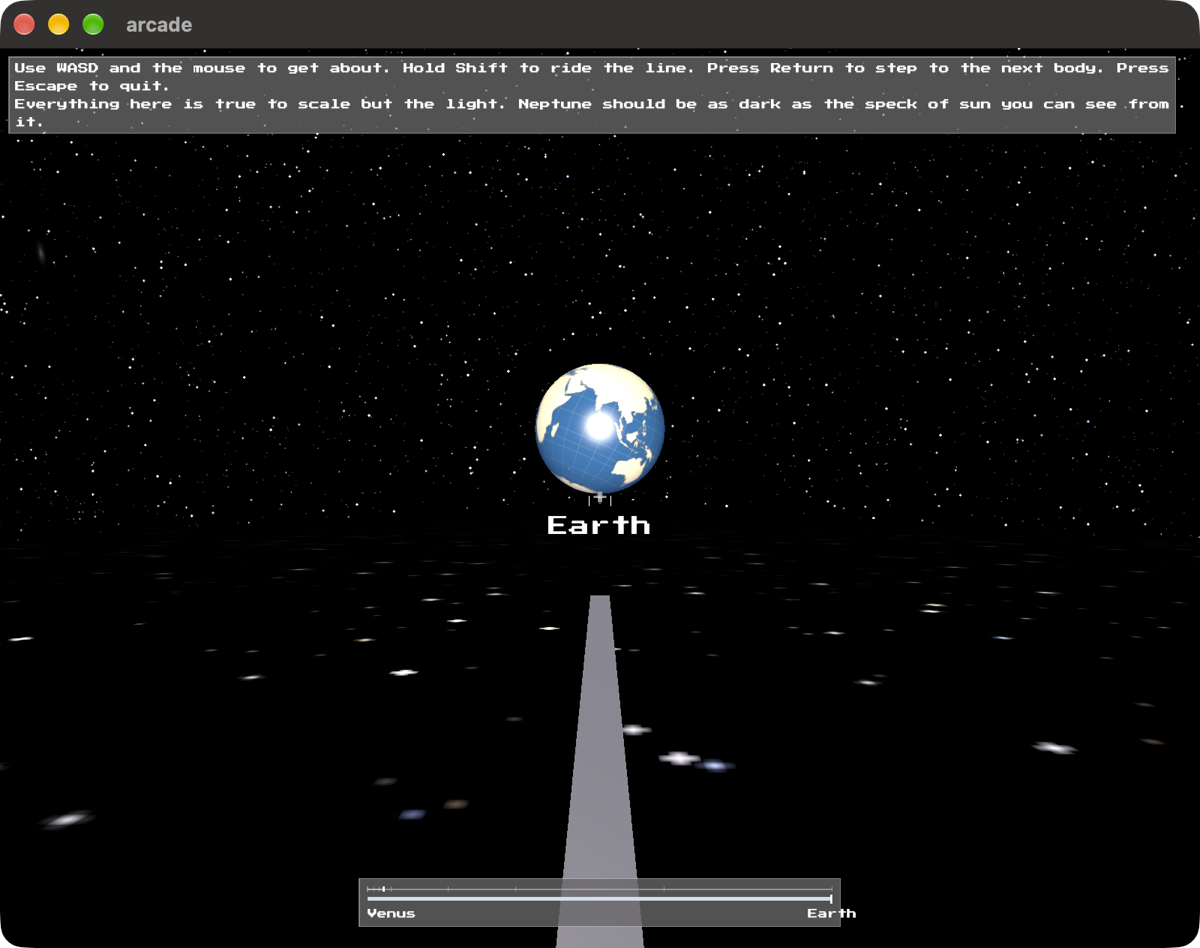
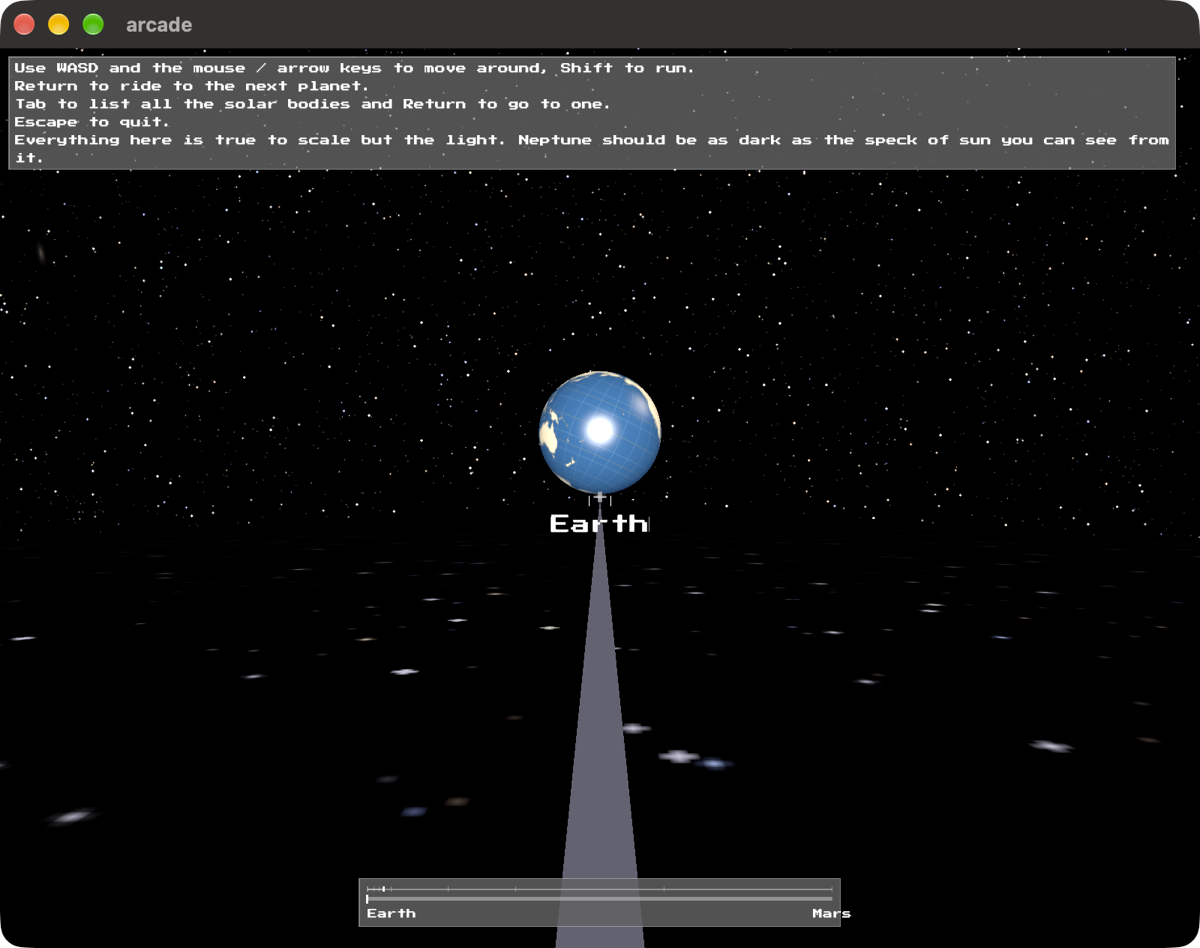
Let the game say which pictures it has, and retake all four
Three of the arcade's four pictures on the site were taken by hand once and
nothing could take them again. refresh-screenshots knew only screenshot.png,
so a room that changed under them would have left three pictures of a building
that no longer existed, published, with every check green.

The game answers --screenshots now with a name and a file a line, so which
pictures it has is the game's to know and the photographer only takes them.

The three extra poses are no longer aimed by hand either. beyond::posed_at
returns where the ride actually sets you down, through the same arriving the
auto-stop uses, so a picture cannot be of somewhere the game never puts you.
Coming in from the stop before it is the one rule and it gives both pictures:
a planet with the line running away behind it, because the stop before a
planet is the planet inside it, and a moon on its own with its planet at your
back, because the stop before a moon is its planet.

Every shot is named, Saturn's included, and that is not tidiness. A shell
strips leading whitespace off a field when the separator is whitespace, so a
nameless first field ate the file name after it and the staged shot was
quietly the one picture of four that did not get taken.

All four are retaken here. They differ from what was committed because those
predate the rewrite of the help lines.

And the galaxies that are not here. The hidden room's standing walls looked
[…]

diff --git a/src/orrery.rs b/src/orrery.rs
@@ -948,6 +948,45 @@ pub fn starred(seed: u32, size: glam::Vec2) -> blitzkit::texture::TextureData {
     blitzkit::texture::TextureData::from_pixels(wide, tall, pixels)
 }
 
+/// How big a galaxy is, as a share of the picture's smaller side, least and
+/// most.
+///
+/// The smaller side, so one is the same size whatever shape the surface is.
+/// Which is also, it turns out, the whole answer to which surfaces can carry
+/// one: see `galaxy_across`.
+pub const GALAXY_LEAST: f32 = 0.012;
+pub const GALAXY_MOST: f32 = 0.040;
+
+/// How big a galaxy comes out on a surface of this size, across, in the
+/// surface's own units.
+///
+/// Worked out rather than looked at, because looking at it is what wasted the
+/// round: galaxies were put on the hidden room's four standing walls and two
+/// frames of the same spot, differenced, came back 91 pixels of two million
+/// changed by three code values or more. Nothing, and this says why without
+/// anybody having to build it again.
+///
+/// Only the checks ask. `galaxied` does its own arithmetic in texels because
+/// texels are what it is laying down, and this is the same arithmetic in the
+/// units a person thinks in.
+#[cfg(test)]
+pub fn galaxy_across(size: glam::Vec2) -> (f32, f32) {
+    let wide = ((size.x * STAR_PER_UNIT) as u32).clamp(64, STAR_MOST) as f32;
+    let tall = ((size.y * STAR_PER_UNIT) as u32).clamp(64, STAR_MOST) as f32;
+    // the smaller side decides how big a galaxy is, and so it is also the
+    // side whose texels say what that is worth on the surface
+    let (least, over) = if wide <= tall {
+        (wide, size.x / wide)
+    } else {
+        (tall, size.y / tall)
+    };
+
+    (
+        least * GALAXY_LEAST * 2.0 * over,
+        least * GALAXY_MOST * 2.0 * over,
+    )
+}
+
 /// The same, with a few galaxies in it.
 ///
 /// Only the sky of spec 0018 gets these, and only because it is the one
@@ -956,6 +995,22 @@ pub fn starred(seed: u32, size: glam::Vec2) -> blitzkit::texture::TextureData {
 /// picture across, and a picture laid on something you can walk up to puts
 /// that at a few metres. On the floor they came out as six metre smudges at
 /// your feet.
+///
+/// **The hidden room's standing walls cannot have them either**, which is the
+/// other half and is less obvious. They are the one dark surface in this
+/// building that is nowhere near your feet, so they look like the answer. They
+/// are also 3.2 metres high and 159 long, and a galaxy is a share of the
+/// *smaller* side: on a letterbox that is eight to twenty-five centimetres,
+/// which from anywhere in that room is nothing at all. Sizing them off the
+/// long side instead only moves the problem: it makes a galaxy on that wall
+/// 12.7 metres across, which runs off the top and the bottom of a wall 3.2
+/// high four times over, and the one thing a
+/// galaxy is for is saying the dark goes on past the stars. A wall you can
+/// walk up to and touch says the opposite.
+///
+/// A galaxy wants a surface that is big whichever way you measure it. This
+/// building has two, the hidden room's floor and its lid, and both of those
+/// are the six metre smudges above.
 pub fn galaxied(seed: u32, size: glam::Vec2) -> blitzkit::texture::TextureData {
     let (wide, tall, mut pixels) = sprinkled(seed, size);
     let many = (wide as u64 * tall as u64 / 420).max(16) as u32;
@@ -980,7 +1035,8 @@ pub fn galaxied(seed: u32, size: glam::Vec2) -> blitzkit::texture::TextureData {
         let at = glam::vec2((next() % wide) as f32, (next() % tall) as f32);
         // across the long way, as a share of the smaller side, so one is the
         // same size whatever shape the surface is
-        let reach = wide.min(tall) as f32 * (0.012 + (next() % 1000) as f32 / 1000.0 * 0.028);
+        let reach = wide.min(tall) as f32
+            * (GALAXY_LEAST + (next() % 1000) as f32 / 1000.0 * (GALAXY_MOST - GALAXY_LEAST));
         let squash = 0.24 + (next() % 1000) as f32 / 1000.0 * 0.5;
         let turn = (next() % 1000) as f32 / 1000.0 * std::f32::consts::PI;
         let (sin, cos) = turn.sin_cos();
@@ -1663,6 +1719,48 @@ pub fn picture(body: &Body) -> blitzkit::texture::TextureData {
 #[cfg(test)]
 mod tests {
     use super::*;
+
+    /// Spec 0018: a galaxy wants a surface that is big whichever way it is
+    /// measured, and this building has two of them, both underfoot or
+    /// overhead.
+    ///
+    /// Written after putting galaxies on the hidden room's four standing walls
+    /// and differencing two frames of the same spot: 91 pixels of two million
+    /// changed by three code values or more. They are 3.2 metres high, a
+    /// galaxy is a share of the smaller side, and a share of 3.2 metres is
+    /// centimetres.
+    ///
+    /// Both halves are here, because either one alone reads as an argument for
+    /// turning the other dial. The floor is the surface that is big both ways
+    /// and a galaxy on it is metres across at your feet, which is why `walls`
+    /// uses `starred` for every one of them.
+    #[test]
+    fn a_galaxy_wants_a_surface_that_is_big_whichever_way_it_is_measured() {
+        for (n, (_, size, _)) in walls(9.0).into_iter().enumerate() {
+            let (_, most) = galaxy_across(size);
+
+            // the floor and the lid come first, and they are the square ones
+            if n < 2 {
+                assert!(
+                    most > 1.5,
+                    "the {}th surface is {:?} and a galaxy on it is {:.2} across, \
+                     which is small enough to be worth drawing after all",
+                    n,
+                    size,
+                    most
+                );
+            } else {
+                assert!(
+                    most < 0.3,
+                    "the {}th surface is {:?} and a galaxy on it is {:.2} across, \
+                     which is big enough to see and this test is out of date",
+                    n,
+                    size,
+                    most
+                );
+            }
+        }
+    }
 
     fn planet(name: &str) -> Planet {
         *PLANETS

diff --git a/src/main.rs b/src/main.rs
@@ -155,7 +155,48 @@ fn staged() -> bool {
 /// pose is still here behind `--screenshot=hall`: it cost two rounds to derive
 /// and the reasoning on it is still true.
 fn staged_in_the_hall() -> bool {
-    std::env::args().any(|arg| arg == "--screenshot=hall")
+    staged_as().as_deref() == Some("hall")
+}
+
+/// Which shot was asked for, if the argument named one.
+///
+/// `--screenshot` on its own is the one that lands in `media/screenshot.png`.
+/// `--screenshot=<slug>` is one of the bodies in `beyond::SHOWN`, by the slug
+/// `beyond::slugged` gives it, and `--screenshot=hall` is the hall's own pose.
+fn staged_as() -> Option<String> {
+    std::env::args().find_map(|arg| arg.strip_prefix("--screenshot=").map(str::to_owned))
+}
+
+/// Every shot this game can stage, as the argument to ask for it by and the
+/// file it belongs in.
+///
+/// `refresh-screenshots` in the project above reads this and takes them all.
+/// It knew only `screenshot.png` before, so the three pictures of this room
+/// on the site were taken by hand once and nothing could take them again: a
+/// room that changed under them left three pictures of a building that no
+/// longer existed, published, with every check green.
+///
+/// The hall's pose is not in here. It is a pose kept for its reasoning and
+/// there is no file on the site that holds it, and a shot with nowhere to go
+/// is not a shot.
+fn shots() -> Vec<(String, String)> {
+    // Every one is named, the staged shot included, and that is not tidiness.
+    // The photographer reads these lines with the tab as its separator, and a
+    // shell strips leading whitespace off a field when the separator is
+    // whitespace: a nameless first field ate the file name after it and the
+    // staged shot was quietly the one picture that did not get taken.
+    let mut out = vec![(
+        beyond::slugged(beyond::PAIRED),
+        "media/screenshot.png".to_owned(),
+    )];
+
+    for name in beyond::SHOWN.iter() {
+        let slug = beyond::slugged(name);
+
+        out.push((slug.clone(), format!("media/{}.png", slug)));
+    }
+
+    out
 }
 
 /// How far back from the cabinet the staged shot stands, and how far out of
@@ -504,8 +545,23 @@ impl Arcade {
         // The system's shot by default, because that is what
         // `media/screenshot.png` holds and `refresh-screenshots` photographs
         // whatever `--screenshot` stages. The hall's is behind
-        // `--screenshot=hall`.
-        let (posed_at, posed_yaw, posed_stop) = match beyond::posed(beyond::at(reaches)) {
+        // `--screenshot=hall`, and each of `beyond::SHOWN` behind its own slug.
+        //
+        // A slug that names nothing falls through to the default rather than
+        // failing, which is the right way round for a photographer: a shot
+        // that cannot be staged should come out as the picture that can be,
+        // and `refresh-screenshots` only ever asks for names this binary gave
+        // it.
+        let door = beyond::at(reaches);
+        let asked = staged_as()
+            .filter(|slug| !staged_in_the_hall() && *slug != beyond::slugged(beyond::PAIRED))
+            .and_then(|slug| {
+                beyond::SHOWN
+                    .iter()
+                    .find(|name| beyond::slugged(name) == slug)
+            })
+            .and_then(|name| beyond::posed_at(door, name));
+        let (posed_at, posed_yaw, posed_stop) = match asked.or_else(|| beyond::posed(door)) {
             Some((at, yaw, stop)) if !staged_in_the_hall() => (at, yaw, stop),
             _ => {
                 let (at, yaw) = posed(&room);
@@ -5832,6 +5888,16 @@ impl Game for Arcade {
 }
 
 fn main() {
+    // asked what it can photograph rather than told, so the list lives in one
+    // place and that place is the game
+    if std::env::args().any(|arg| arg == "--screenshots") {
+        for (name, file) in shots() {
+            println!("{}\t{}", name, file);
+        }
+
+        return;
+    }
+
     start("arcade", Box::new(Arcade::new()));
 }
 

diff --git a/src/beyond.rs b/src/beyond.rs
@@ -456,17 +456,74 @@ pub fn mapped(stops: &[Stop], here: usize, at: Vec3, facing: Vec3, door: Vec3) -
 pub const POSED_PAST: f32 = 1.0 / 3.0;
 pub const POSED_ASIDE: f32 = 2.0 / 9.0;
 
+/// Whose shot the staged one is, and its moon.
+///
+/// Named because three places want it: the pose below, the slug the
+/// photographer asks for it by, and the file it lands in. It was written out
+/// as a string in two of them.
+pub const PAIRED: &str = "Saturn";
+pub const PAIRED_MOON: &str = "Titan";
+
 pub fn posed(door: Vec3) -> Option<(Vec3, f32, usize)> {
     let stops = stops(door);
     let at = |name: &str| stops.iter().position(|stop| stop.name == name);
-    let (planet, moon) = (at("Saturn")?, at("Titan")?);
+    let (planet, moon) = (at(PAIRED)?, at(PAIRED_MOON)?);
     let (planet, moon) = (stops[planet].at, stops[moon].at);
     let gap = moon.x - planet.x;
     let eye = vec3(moon.x + gap * POSED_PAST, 0.0, moon.z + gap * POSED_ASIDE);
     // aimed between the two, so neither is at the edge of the glass
     let look = (planet + moon) * 0.5 - eye;
 
-    Some((eye, look.x.atan2(-look.z), at("Saturn")?))
+    Some((eye, look.x.atan2(-look.z), at(PAIRED)?))
+}
+
+/// The bodies the site shows besides the staged shot, one picture each.
+///
+/// Three because one picture of this space says one thing. Saturn says a
+/// planet is not a ball, the Earth says a world is nine centimetres at this
+/// scale, the moon says how far off a moon stands, and Jupiter says what an
+/// astronomical unit is next to something you can see. The staged shot is
+/// Saturn's and lives in `media/screenshot.png`; these three are the rest.
+///
+/// **This is the list, and `refresh-screenshots` asks the game for it.** The
+/// three were taken by hand once and nothing could take them again: the
+/// script knew only `screenshot.png`, so a room that changed under them left
+/// three pictures of a building that no longer existed, on a published page,
+/// with every check green.
+pub const SHOWN: [&str; 3] = ["Earth", "the moon", "Jupiter"];
+
+/// A body's name as it goes on a command line and into a file name.
+///
+/// The one account of it. A shot is asked for by slug and lands in a file of
+/// the same slug, so the two cannot drift: `the moon` is `--screenshot=the-moon`
+/// and `media/the-moon.png` and there is nowhere else that says so.
+pub fn slugged(name: &str) -> String {
+    name.to_lowercase().replace(' ', "-")
+}
+
+/// Where a staged shot of one named body stands, and which way it looks.
+///
+/// Where the ride sets you down, which is the whole reason it is this and not
+/// a bearing of its own: a picture taken from somewhere the game never puts
+/// you is a picture of somewhere that does not exist. `arriving` is what the
+/// auto-stop uses, so this is the view the player gets on pressing Return
+/// until the name comes up.
+///
+/// Coming in from the stop before it, which for a planet is the planet inside
+/// it and so is along the line, and for a moon is its own planet and so is
+/// across it. That is the one rule and it gives both the right picture:
+/// a planet with the line running away behind it, and a moon out on its own
+/// with the planet it belongs to at your back.
+///
+/// Saturn is not done this way and has `posed` to itself, because the thing
+/// worth photographing there is a planet and its moon in one frame and no
+/// arrival pose shows two bodies at once.
+pub fn posed_at(door: Vec3, name: &str) -> Option<(Vec3, f32, usize)> {
+    let stops = stops(door);
+    let n = stops.iter().position(|stop| stop.name == name)?;
+    let (eye, along) = arriving(stops[n.saturating_sub(1)].at, &stops[n]);
+
+    Some((eye, along.x.atan2(-along.z), n))
 }
 
 /// How far apart the posts down the line stand, and how big they are.

diff --git a/specs/0018-the-system-at-true-scale.md b/specs/0018-the-system-at-true-scale.md
@@ -458,3 +458,19 @@ Orbits, which at this scale are not a thing to walk. Moving bodies: they stand
 where they stand. Any body not in spec 0015's tables, which is to say Pluto,
 the asteroids, and the two specks round Mars that spec 0015 left out for the
 same reason they would be left out here.
+
+**Galaxies anywhere but on this sky.** The hidden room of spec 0011 is the
+other dark place in this building and its standing walls look like the obvious
+second home for them, being the one dark surface that is nowhere near your
+feet. They are also 3.2 metres high against 159 long, and a galaxy is a share
+of a picture's smaller side, so on that letterbox it comes out between eight
+and twenty-five centimetres. Built and photographed: two frames of the same
+spot, differenced, came back 91 pixels of two million changed by three code
+values or more.
+
+Sizing them off the long side instead only moves the problem, to 12.7 metres
+on a wall 3.2 high. A galaxy's whole job is saying the dark goes on past the
+stars, and a wall you can walk up to and touch says the opposite. The two
+surfaces in that room that are big whichever way you measure them are its
+floor and its lid, and a galaxy on those is the six metre smudge at your feet
+that `orrery::galaxied` already records. — `orrery::tests::a_galaxy_wants_a_surface_that_is_big_whichever_way_it_is_measured`
